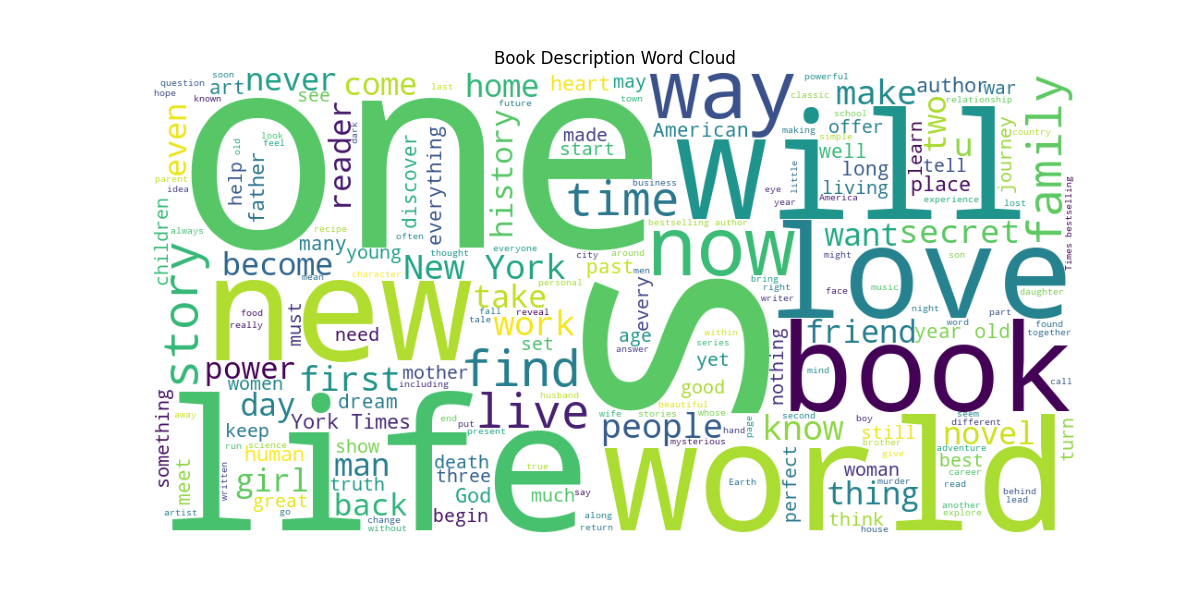
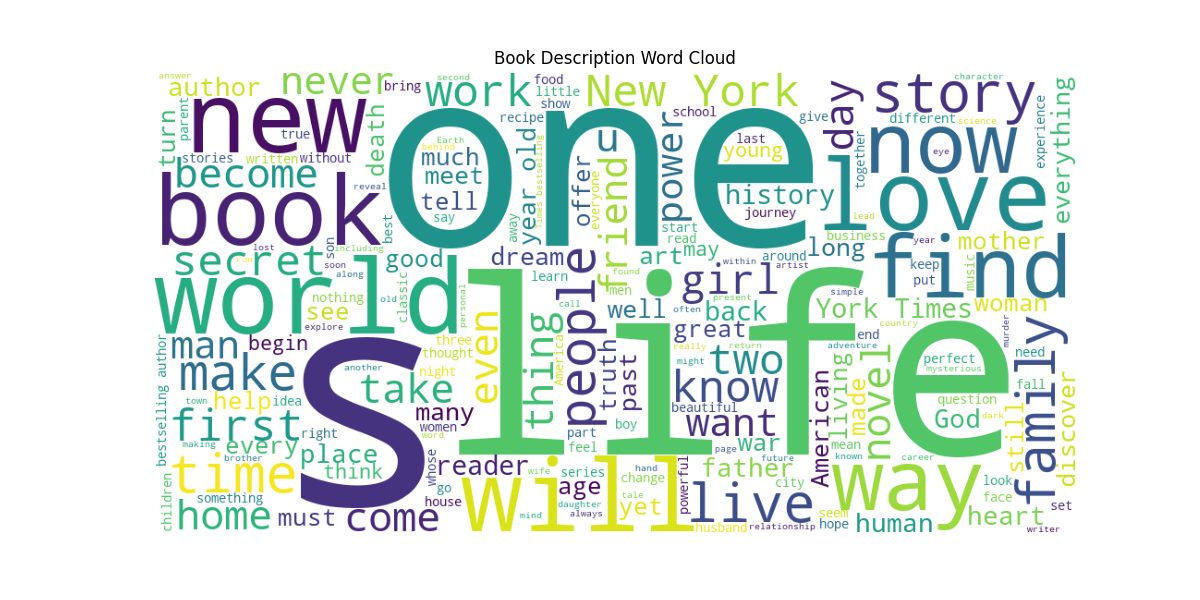
task 5 completed

diff --git a/202618027_Lab_01/analysis.py b/202618027_Lab_01/analysis.py
@@ -87,6 +87,17 @@ plt.ylabel("Price (£)")
 plt.savefig("price_vs_rating.png")
 plt.show()
 
+plt.figure(figsize=(7,5))
+
+df.boxplot(column="price", by="rating")
+
+plt.title("Price Distribution by Rating")
+plt.suptitle("")        
+plt.xlabel("Rating")
+plt.ylabel("Price (£)")
+plt.savefig("Price Distribution by Rating")
+plt.show()
+
 # -------------------------------
 # Plot 5 : Category vs Stock
 # -------------------------------
@@ -167,3 +178,4 @@ print(
         ["title", "price", "rating", "value_score"]
     ].head(10)
 )
+
